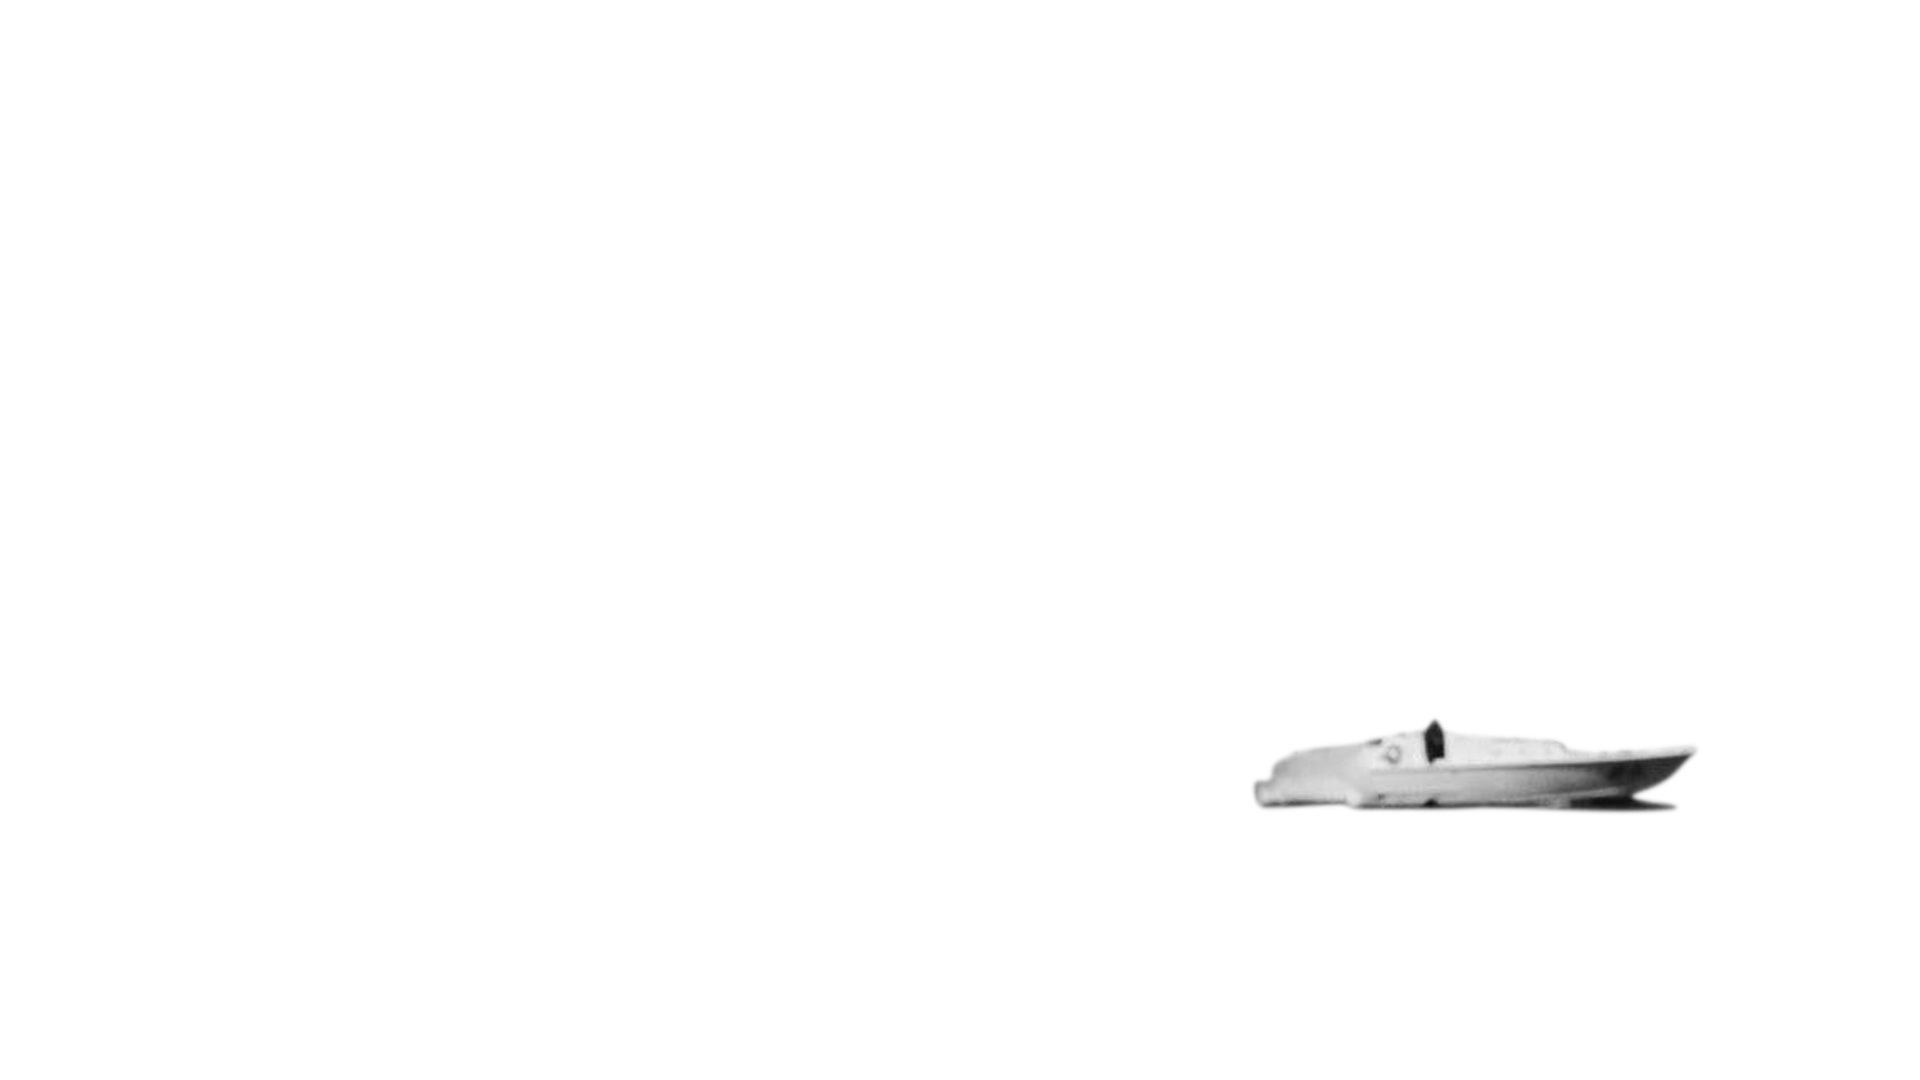
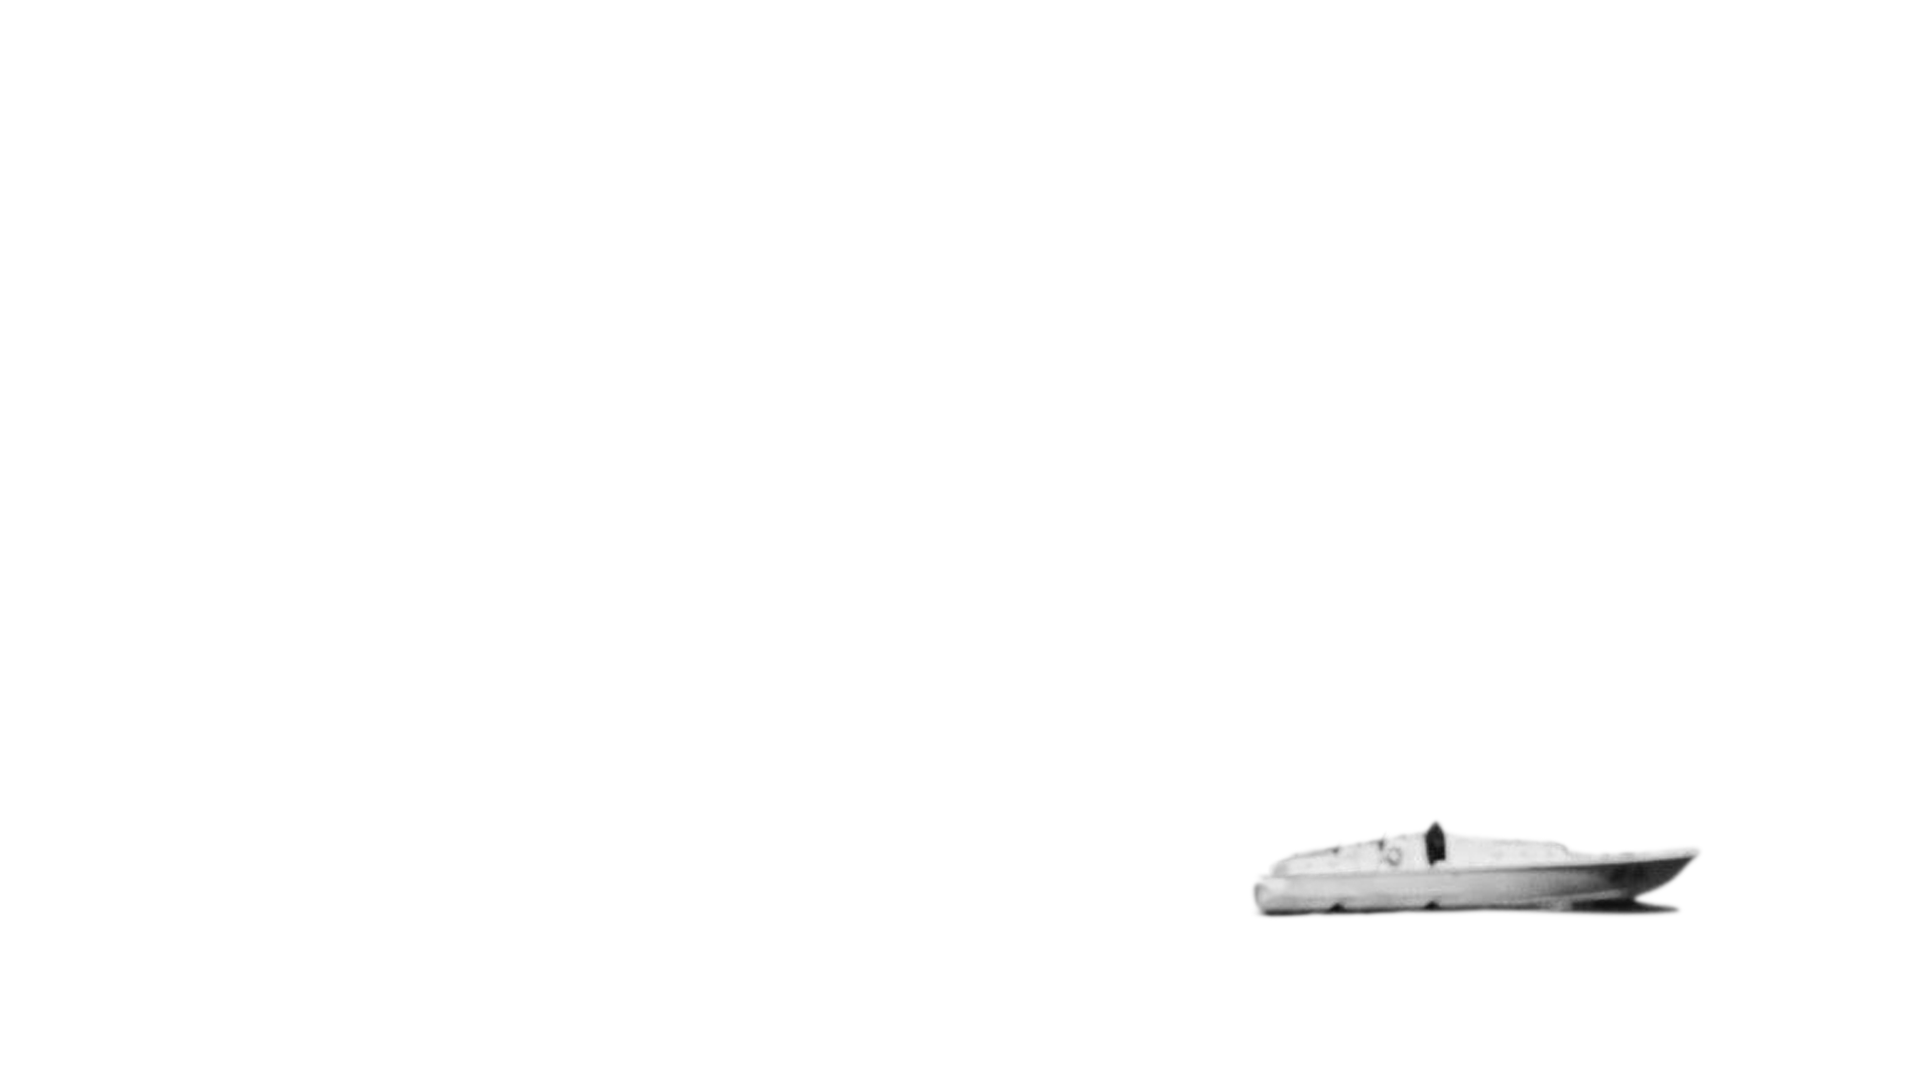
re-exported header

Changed region(s): [[0.6562, 0.6722, 0.875, 0.8556]]

diff --git a/src/index.html b/src/index.html
@@ -37,9 +37,9 @@
     <div class="content">
         <div class="header">
           <div class="header-bg">
-              <div class="header-cloud parallax" data-speed="1"></div>
+              <div class="header-cloud parallax" data-speed="-1"></div>
               <div class="header-boat parallax" data-speed="-4"></div>
-              <div class="header-hitchcock parallax" data-speed="2"></div>
+              <div class="header-hitchcock parallax" data-speed="1"></div>
               <div class="filter"></div>
           </div>
           <div class="info">

diff --git a/src/css/style.css b/src/css/style.css
@@ -48,7 +48,7 @@ h3 {
 
 .header-bg {
   position: relative;
-  background-image: url(../assets/img/header-bg.png) ;
+  background-image: url(../assets/img/header-bg.png);
   height: 100vh;
   width: 100%;
   z-index: 1;
@@ -58,7 +58,7 @@ h3 {
 
 .filter {
   position: absolute;
-  background-color: rgba(0,0,0,0.45);
+  background-color: rgba(0, 0, 0, .45);
   z-index: 5;
   height: 100%;
   width: 100%;
